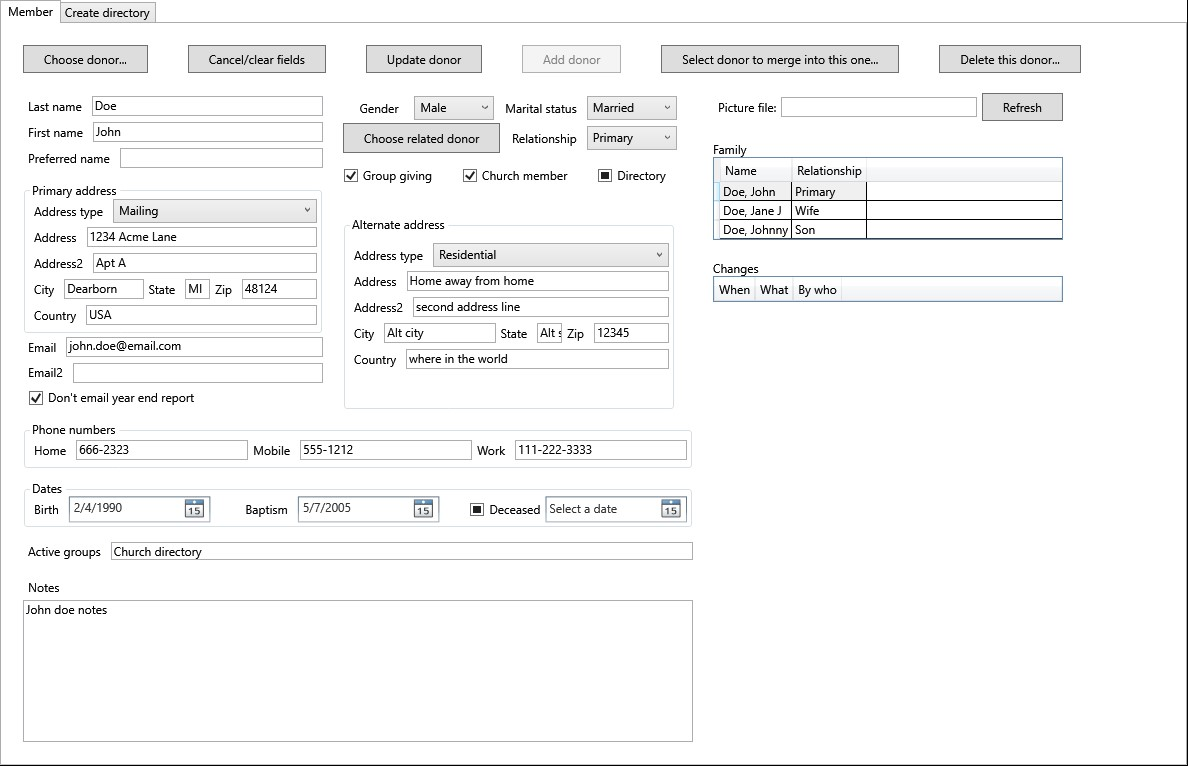
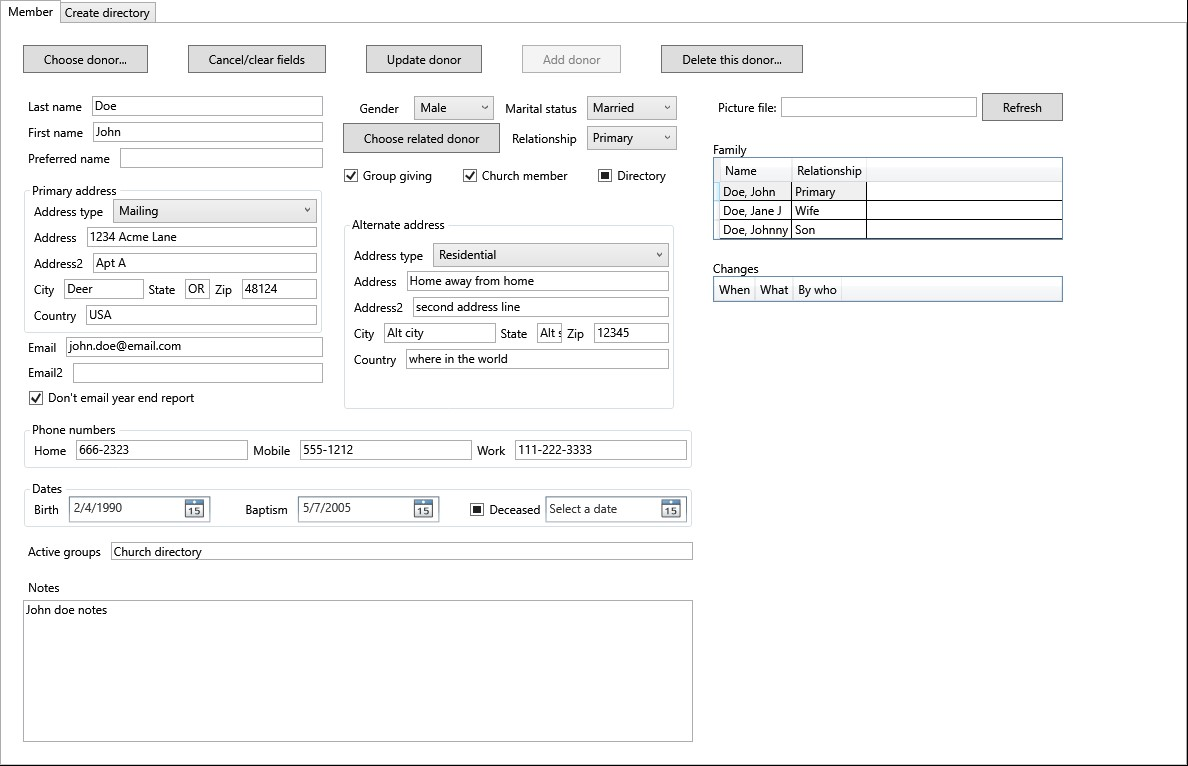
fixes for help and context sensetive help

Changed region(s): [[0.5606, 0.0601, 0.9343, 0.1201], [0.1557, 0.3603, 0.1869, 0.3903], [0.0623, 0.3603, 0.0934, 0.3903]]

diff --git a/Donations.Lib/View/DonorView.xaml b/Donations.Lib/View/DonorView.xaml
@@ -50,7 +50,7 @@
 			<Button Grid.Row="0" Grid.Column="3" Content="_Add donor" Padding="20,5" Margin="20,0,20,20"
 							Click="AddDonor_Click" IsEnabled="{Binding AddEnabled}"/>
 			<Button Grid.Row="0" Grid.Column="4" Content="_Select donor to merge into this one..." Padding="20,5" Margin="20,0,20,20"
-							Click="SelectDonorToMerge_Click" IsEnabled="{Binding UpdateEnabled}"/>
+							Click="SelectDonorToMerge_Click" IsEnabled="{Binding UpdateEnabled}" Visibility="{Binding DonationsVisibility}"/>
 			<Button Grid.Row="0" Grid.Column="5" Content="_Delete this donor..." Padding="20,5" Margin="20,0,0,20"
 							Click="DeleteDonor_Click" IsEnabled="{Binding UpdateEnabled}"/>
 

diff --git a/Donations.Lib/View/MainWindowMembersControl.xaml b/Donations.Lib/View/MainWindowMembersControl.xaml
@@ -20,7 +20,7 @@
 			<TabItem x:Name="MemberTab" Header="{StaticResource MemberTabHeader}">
 				<local:DonorView x:Name="DonorView" DataContext="{Binding DonorViewModel}"/>
 			</TabItem>
-			<TabItem Header="{StaticResource DirectoryTabHeader}" Selector.Selected="DirectoryTab_Selected">
+			<TabItem x:Name="DirectoryTabs" Header="{StaticResource DirectoryTabHeader}" Selector.Selected="DirectoryTab_Selected">
 				<local:DirectoryTabView DataContext="{Binding DirectoryViewModel}"/>
 			</TabItem>
 		</TabControl>

diff --git a/Donations.Lib/Resources/Strings.xaml b/Donations.Lib/Resources/Strings.xaml
@@ -23,7 +23,7 @@
 	<system:String x:Key="AboutTabHeader">About</system:String>
 	<system:String x:Key="MemberTabHeader">Member</system:String>
 	<system:String x:Key="DirectoryTabHeader">Create directory</system:String>
-	<system:String x:Key="DirectoryPdfTabHeader">Pdf</system:String>
+	<system:String x:Key="DirectoryPdfTabHeader">Pdf file</system:String>
 	<system:String x:Key="DirectoryHtmlTabHeader">Html</system:String>
 
 	<system:String x:Key="BatchReviewByCategoryTabHeader">By category</system:String>

diff --git a/Donations.Lib/View/DirectoryTabView.xaml b/Donations.Lib/View/DirectoryTabView.xaml
@@ -20,7 +20,7 @@
 			<RowDefinition Height="Auto"/>
 			<RowDefinition Height="Auto"/>
 		</Grid.RowDefinitions>
-		<TabControl Grid.Row="0">
+		<TabControl Grid.Row="0" x:Name="DirectoryTabs">
 			<TabItem x:Name="DirectoryPdfTab" Header="{StaticResource DirectoryPdfTabHeader}" Selector.Selected="DirectoryPdfTab_Selected" Selector.Unselected="DirectoryPdfTab_Unselected">
 				<local:DirectoryPdfView DataContext="{Binding DirectoryPdfViewModel}"/>
 			</TabItem>

diff --git a/Members/MainWindow.xaml b/Members/MainWindow.xaml
@@ -8,7 +8,7 @@
         mc:Ignorable="d"
 		KeyDown="Window_KeyDown"
 		Closing="Window_Closing"
-        Title="Beaverton SDA church member maintenance" MinHeight="450" MaxHeight="{Binding System.Windows.SystemParameters.WorkArea.Height}" Width="1100">
+        Title="Member maintenance" MinHeight="450" MaxHeight="{Binding System.Windows.SystemParameters.WorkArea.Height}" Width="1100">
 	<Grid>
 		<view:MainWindowMembersControl/>
 	</Grid>

diff --git a/Donations/MainWindow.xaml b/Donations/MainWindow.xaml
@@ -9,7 +9,7 @@
 		Loaded="Window_Loaded"
 		Closing="Window_Closing"
 		KeyDown="Window_KeyDown"
-        Title="Beaverton SDA church donations" MinHeight="450" MaxHeight="{Binding MaximumHeight}" Width="1100">
+        Title="Church donation manager" MinHeight="450" MaxHeight="{Binding MaximumHeight}" Width="1100">
 	<Grid>
 		<view:MainWindowControl x:Name="MainControl"/>
 	</Grid>

diff --git a/Donations.Lib/TestData.cs b/Donations.Lib/TestData.cs
@@ -27,6 +27,7 @@ namespace Donations.Lib
 		public ObservableCollection<DonorReport>? donorReports = new ObservableCollection<DonorReport>();
 		public ObservableCollection<DonorChange>? donorChanges = new ObservableCollection<DonorChange>();
 		public ObservableCollection<NamedDonorReport>? namedDonorReports = new ObservableCollection<NamedDonorReport>();
+		public PdfDirectory? PdfDirectory = new PdfDirectory();
 
 		public string AdventistGivingCsv;
 		public string CategoriesCsv;
@@ -197,6 +198,17 @@ namespace Donations.Lib
 
 			donorChanges.Add(new DonorChange() { Id = 1, DonorId = DonorList[0].Id, Name = "Doe, John", WhenChanged = DateTime.Now, WhatChanged = "ChurchMember: false => true", WhoChanged = "ssing" });
 			donorChanges.Add(new DonorChange() { Id = 2, DonorId = DonorList[1].Id, Name = "Doe, Jane", WhenChanged = DateTime.Now, WhatChanged = "MaritalStatus: single => married", WhoChanged = "ssing" });
+
[1 lines of base64/hex data omitted]
+			List<byte> bytes = new List<byte>();
+
+			for (int i = 0; i < hex.Length; i += 2)
+			{
+				bytes.Add(Convert.ToByte(hex.Substring(i, 2), 16));
+			}
+			PdfDirectory.PageHeight = 8.0;
+			PdfDirectory.PageWidth = 5.5;
+			PdfDirectory.CoverRtf = bytes.ToArray();
 		}
 
 		public static implicit operator ValueTask(TestData v)

diff --git a/Donations.Lib/View/MainWindowMembersControl.xaml.cs b/Donations.Lib/View/MainWindowMembersControl.xaml.cs
@@ -1,6 +1,8 @@
-using Donations.Lib.ViewModel;
+using Donations.Lib.Model;
+using Donations.Lib.ViewModel;
 using System.Windows;
 using System.Windows.Controls;
+using System.Windows.Input;
 
 namespace Donations.Lib.View;
 
@@ -30,18 +32,6 @@ public partial class MainWindowMembersControl : UserControl
 	/// <param name="e"></param>
 	private async void MainWindowControl_Unloaded(object sender, RoutedEventArgs e)
 	{
-		//if ((MainTabControl.SelectedItem as TabItem) == ReportsTab)
-		//{
-		//	// if on the Reports tab save settings
-		//	await (ReportsView.DataContext as ReportsViewModel)!.Leaving();
-		//}
-
-		//if ((MainTabControl.SelectedItem as TabItem) == MaintenanceMainTab && ((MaintenanceTabs.SelectedItem as TabItem) == MaintenanceGeneralTab))
-		//{
-		//	// if open to the Maintenance General tab, save settings
-		//	await _mainWindowViewModel?.GeneralViewModel?.Leaving();
-		//}
-
 		_helpView?.ForceClose();
 	}
 
@@ -52,7 +42,42 @@ public partial class MainWindowMembersControl : UserControl
 
 	private void UserControl_KeyDown(object sender, System.Windows.Input.KeyEventArgs e)
 	{
+		if (Key.F1 == e.Key)
+		{
+			var tabItem = MainTabControl.SelectedItem as TabItem;
+			string target = "";
+			string s;
 
+			if (true == tabItem?.Header.Equals(s = (string)FindResource("MemberTabHeader")))
+			{
+				target = s.Replace(" ", "-");
+			}
+			else if (true == tabItem?.Header.Equals(s = (string)FindResource("DirectoryTabHeader")))
+			{
+				string baseTarget = s.Replace(" ", "-");
+				TabControl? tab = (tabItem.Content as DirectoryTabView)?.DirectoryTabs;
+				if (null != tab)
+				{
+					var item = tab.SelectedItem as TabItem;
+
+					if (-1 == tab.SelectedIndex || true == item?.Header.Equals(s = (string)FindResource("DirectoryPdfTabHeader")))
+					{
+						target = baseTarget + '-' + s.Replace(" ", "-");
+					}
+					else if (true == item?.Header.Equals(s = (string)FindResource("DirectoryHtmlTabHeader")))
+					{
+						target = baseTarget + '-' + s.Replace(" ", "-");
+					}
+				}
+			}
+			else if (true == tabItem?.Header.Equals(s = (string)FindResource("AboutTabHeader")))
+			{
+				target = s.Replace(" ", "-");
+			}
+
+			_helpView.ShowTarget(target);
+			e.Handled = true;
+		}
 	}
 
 	private async void DirectoryTab_Selected(object sender, RoutedEventArgs e)

diff --git a/Donations.Lib/DonationsScreenShots.cs b/Donations.Lib/DonationsScreenShots.cs
@@ -69,6 +69,7 @@ public class DonationsScreenShots : ScreenShotBase
 		var td = new TestData();
 
 		WindowContainer windowContainer = new WindowContainer();
+		windowContainer.Title = "Church donation manager";
 
 		_mainWindowControl.DataContext = _mainWindowViewModel;
 		windowContainer.Main.Content = _mainWindowControl;
@@ -250,6 +251,10 @@ public class DonationsScreenShots : ScreenShotBase
 
 		await SaveScreenshot(windowContainer, destination_folder, "MaintenanceTab-GeneralTab.jpg");
 
+		_mainWindowControl.MainTabControl.SelectedItem = _mainWindowControl.DirectoryTabs;
+
+		await SaveScreenshot(windowContainer, destination_folder, "DirectoryTab-Pdf.jpg");
+
 		_mainWindowControl.MainTabControl.SelectedItem = _mainWindowControl.AboutTab;
 
 		await SaveScreenshot(windowContainer, destination_folder, "AboutTab.jpg");
@@ -315,24 +320,4 @@ public class DonationsScreenShots : ScreenShotBase
 	{
 		_categoryReviewViewModel?.CreatePreview(document, font, size, printAreaWidth);
 	}
-
-	public async Task SaveScreenshot(Window window, string folder, string filename, int msDelay = 500)
-	{
-		// wait for screen content to load
-		await Task.Delay(msDelay);
-
-		double border = SystemParameters.ResizeFrameVerticalBorderWidth + SystemParameters.FixedFrameHorizontalBorderHeight + SystemParameters.BorderWidth * SystemParameters.Border;
-
-		RenderTargetBitmap renderTargetBitmap = new RenderTargetBitmap(
-			(int)(window.Width - 2 * border),
-			(int)(window.Height - 2 * border - SystemParameters.CaptionHeight),
-			96, 96, PixelFormats.Default);
-
-		renderTargetBitmap.Render(window);
-		JpegBitmapEncoder jpegEncoder = new JpegBitmapEncoder();
-		jpegEncoder.Frames.Add(BitmapFrame.Create(renderTargetBitmap));
-		using Stream fs = File.Create(Path.Combine(folder, filename));
-		jpegEncoder.Save(fs);
-	}
-
 }

diff --git a/Donations.Lib/MemberScreenShots.cs b/Donations.Lib/MemberScreenShots.cs
@@ -65,6 +65,7 @@ public class MemberScreenShots : ScreenShotBase
 		var td = new TestData();
 
 		WindowContainer windowContainer = new WindowContainer();
+		windowContainer.Title = "Member maintenance";
 
 		_mainWindowMembersControl.DataContext = _mainWindowMembersViewModel;
 		windowContainer.Main.Content = _mainWindowMembersControl;
@@ -85,25 +86,17 @@ public class MemberScreenShots : ScreenShotBase
 		await SaveScreenshot(donorSelectionView, destination_folder, "DonorSelectionView.jpg");
 		donorSelectionView.Close();
 
-		var confirmDonorMergeViewFactory = _confirmDonorMergeViewFactory(td.DonorList[0], td.DonorList[1], await _donationServices.GetDonationsByDonorId(td.DonorList[1].Id));
-
-		confirmDonorMergeViewFactory.Show();
-		await SaveScreenshot(confirmDonorMergeViewFactory, destination_folder, "ConfirmDonorMergeView.jpg");
-		confirmDonorMergeViewFactory.Close();
-
-		var donorModalView = _donorModalViewFactory(td.DonorList[0]);
+		var donorModalView = _donorModalViewFactory(td.DonorList[0], false);
 
 		donorModalView.Show();
 
 		await SaveScreenshot(donorModalView, destination_folder, "DonorModalView.jpg");
 
-		//_mainWindowMembersControl.MainTabControl.SelectedItem = _mainWindowMembersControl.DirectoryPdfTab;
+		donorModalView.Close();
 
-		//await SaveScreenshot(windowContainer, destination_folder, "Directory-PdfTab.jpg");
+		_mainWindowMembersControl.MainTabControl.SelectedItem = _mainWindowMembersControl.DirectoryTabs;
 
-		//_mainWindowMembersControl.MainTabControl.SelectedItem = _mainWindowMembersControl.DirectoryHtmlTab;
-
-		//await SaveScreenshot(windowContainer, destination_folder, "Directory-HtmlTab.jpg");
+		await SaveScreenshot(windowContainer, destination_folder, "DirectoryTab-Pdf.jpg");
 
 		_wizardMainWindow.Show();
 

diff --git a/Donations.Lib/View/RichTextBoxContainer.cs b/Donations.Lib/View/RichTextBoxContainer.cs
@@ -7,7 +7,18 @@ namespace Donations.Lib.View;
 
 public class RichTextBoxContainer
 {
+	private byte[]? _richText;
 	public RichTextBox? RichTextBox { get; set; }
+
+	public void SetRichTextBox(RichTextBox richTextBox)
+	{
+		RichTextBox = richTextBox;
+		if (null != RichTextBox && null != _richText)
+		{
+			SetRichText(_richText);
+			_richText = null;
+		}
+	}
 
 	public void SetRichText(byte[]? richText)
 	{
@@ -17,10 +28,19 @@ public class RichTextBoxContainer
 			var range = new TextRange(RichTextBox.Document.ContentStart, RichTextBox.Document.ContentEnd);
 			range.Load(stream, DataFormats.XamlPackage);
 		}
+		else
+		{
+			_richText = richText;
+		}
 	}
 
 	public byte[]? GetRichText()
 	{
+		if (null != RichTextBox && null != _richText)
+		{
+			SetRichText(_richText);
+		}
+		
 		if (null != RichTextBox)
 		{
 			TextRange range;
@@ -39,6 +59,11 @@ public class RichTextBoxContainer
 
 	public void RichTextToSection(Section section)
 	{
+		if (null != RichTextBox && null != _richText)
+		{
+			SetRichText(_richText);
+		}
+
 		if (null != RichTextBox)
 		{
 			section.Blocks.Clear();

diff --git a/Donations.Lib/View/MainWindowControl.xaml.cs b/Donations.Lib/View/MainWindowControl.xaml.cs
@@ -267,6 +267,24 @@ public partial class MainWindowControl : UserControl
 					target = baseTarget + '-' + s.Replace(" ", "-");
 				}
 			}
+			else if (true == tabItem?.Header.Equals(s = (string)FindResource("DirectoryTabHeader")))
+			{
+				string baseTarget = s.Replace(" ", "-");
+				TabControl? tab = (tabItem.Content as DirectoryTabView)?.DirectoryTabs;
+				if (null != tab)
+				{
+					var item = tab.SelectedItem as TabItem;
+
+					if (-1 == tab.SelectedIndex || true == item?.Header.Equals(s = (string)FindResource("DirectoryPdfTabHeader")))
+					{
+						target = baseTarget + '-' + s.Replace(" ", "-");
+					}
+					else if (true == item?.Header.Equals(s = (string)FindResource("DirectoryHtmlTabHeader")))
+					{
+						target = baseTarget + '-' + s.Replace(" ", "-");
+					}
+				}
+			}
 			else if (true == tabItem?.Header.Equals(s = (string)FindResource("AboutTabHeader")))
 			{
 				target = s.Replace(" ", "-");
